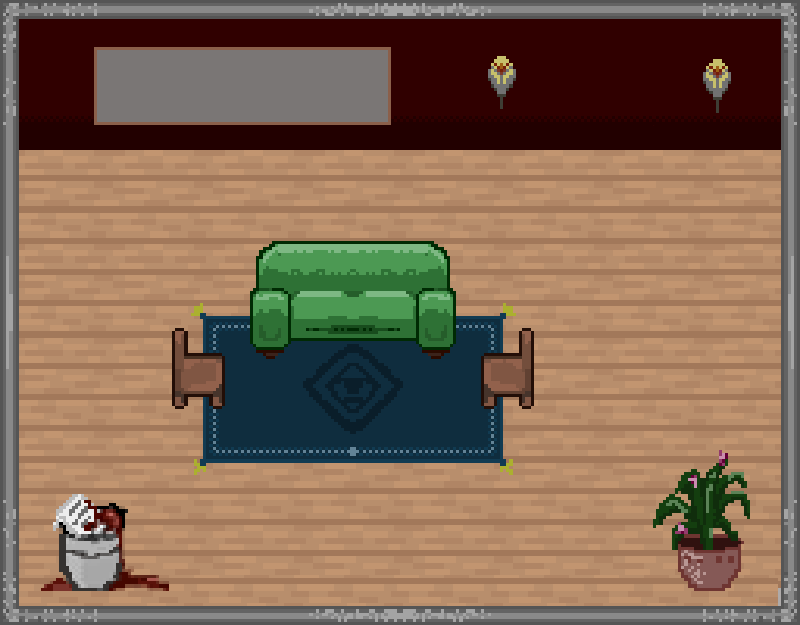
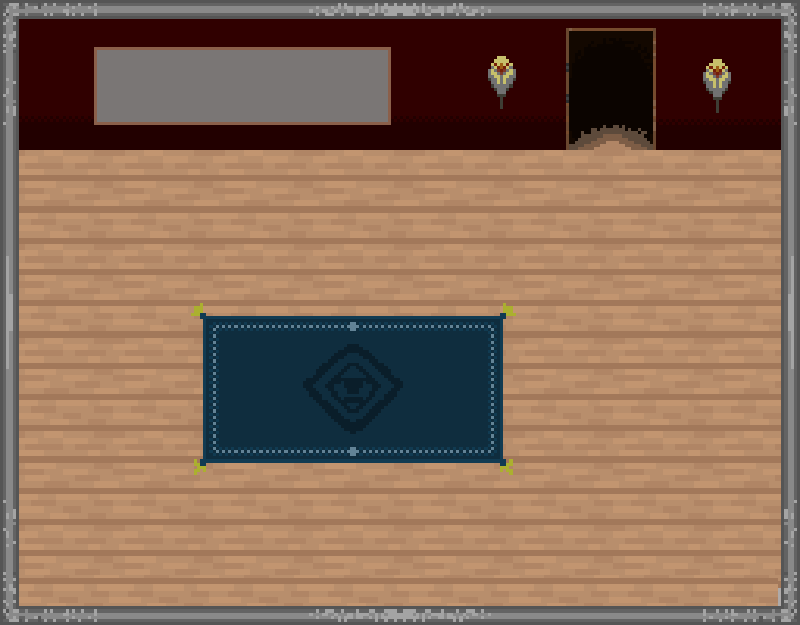
Add objects collision

diff --git a/main.js b/main.js
@@ -1,4 +1,4 @@
-import { IMAGES } from "./consts";
+import { LEVEL_ONE_IMAGES, LEVEL_TWO_IMAGES } from "./consts";
 // import { displayQuestion, generateQuestion } from "./actions";
 import "./style.css";
 import Phaser from "phaser";
@@ -9,14 +9,8 @@ var player;
 var cursors;
 var gameOver = false;
 var door;
-var level = 1;
-var lifes = 2;
-var lifesText;
-var questionNumber = 1;
-var question;
-var item;
 var key;
-
+var book;
 class LevelOne extends Phaser.Scene {
   constructor() {
     super("levelOne");
@@ -26,6 +20,10 @@ class LevelOne extends Phaser.Scene {
   //set a property
 
   keyFound = false;
+  sillon;
+  boteBasura;
+  sillaIzquierda;
+  sillaDerecha;
 
   getKeyFound() {
     return this.keyFound;
@@ -37,7 +35,11 @@ class LevelOne extends Phaser.Scene {
 
   collisionWithDoor(player, element) {
     if (!this.getKeyFound()) {
+      this.game.pause();
       alert("¡Encuentra la llave para poder continuar!");
+      setTimeout(() => {
+        this.game.resume();
+      }, 1000);
       return;
     }
     alert("¡Excelente! Has encontrado la puerte y tienes la llave");
@@ -51,11 +53,11 @@ class LevelOne extends Phaser.Scene {
   }
 
   preload() {
-    IMAGES.forEach((image) => {
+    LEVEL_ONE_IMAGES.forEach((image) => {
       this.load.image(image.name, image.path);
     });
     this.load.spritesheet("player", "assets/player.png", {
-      frameWidth: 96,
+      frameWidth: 107,
       frameHeight: 96,
     });
   }
@@ -64,13 +66,21 @@ class LevelOne extends Phaser.Scene {
     this.add.image(400, 300, "sky");
 
     //Donde aparece el personaje
-    player = this.physics.add.sprite(100, 450, "player");
+    player = this.physics.add.sprite(600, 450, "player");
     //remove gravity
     door = this.physics.add.staticGroup(); // Agrega la puerta como objeto estático
     key = this.physics.add.staticGroup(); // Agrega la llave como objeto estático
+    this.sillon = this.physics.add.staticGroup();
+    this.boteBasura = this.physics.add.staticGroup();
+    this.sillaIzquierda = this.physics.add.staticGroup();
+    this.sillaDerecha = this.physics.add.staticGroup();
     //Donde se crea la puerta [la posicion]
-    key.create(10, 5, "key");
+    key.create(60, 150, "key");
     door.create(610, 75, "door");
+    this.sillon.create(355, 290, "sillon");
+    this.boteBasura.create(100, 530, "boteBasura");
+    this.sillaIzquierda.create(200, 370, "sillaIzquierda");
+    this.sillaDerecha.create(500, 370, "sillaDerecha");
 
     // platforms.create(400, 568, "ground").setScale(2).refreshBody();
     this.physics.world.setBounds(0, 0, 800, 600); // Reemplaza 'width' y 'height' con los valores adecuados
@@ -80,41 +90,52 @@ class LevelOne extends Phaser.Scene {
     //  Our player animations, turning, walking left and walking right.
     this.anims.create({
       key: "left",
-      frames: this.anims.generateFrameNumbers("player", { start: 1, end: 1 }),
+      frames: this.anims.generateFrameNumbers("player", { start: 0, end: 5 }),
       frameRate: 10,
       repeat: -1,
     });
 
     this.anims.create({
       key: "turn",
-      frames: [{ key: "player", frame: 5 }],
+      frames: [{ key: "player", frame: 0 }],
       frameRate: 20,
     });
 
     this.anims.create({
       key: "right",
-      frames: this.anims.generateFrameNumbers("player", { start: 10, end: 10 }),
+      frames: this.anims.generateFrameNumbers("player", { start: 8, end: 13 }),
       frameRate: 10,
       repeat: -1,
     });
 
     this.anims.create({
       key: "up",
-      frames: this.anims.generateFrameNumbers("player", { start: 1, end: 1 }),
+      frames: this.anims.generateFrameNumbers("player", { start: 1, end: 2 }),
       frameRate: 10,
       repeat: -1,
     });
 
     this.anims.create({
       key: "down",
-      frames: this.anims.generateFrameNumbers("player", { start: 5, end: 5 }),
+      frames: this.anims.generateFrameNumbers("player", { start: 0, end: 4 }),
       frameRate: 10,
       repeat: -1,
     });
 
     this.physics.add.collider(player, door, this.collisionWithDoor, null, this);
-
     this.physics.add.collider(player, key, this.collisionWithKey, null, this);
+    this.physics.add.collider(player, this.sillon, () => {}, null, this);
+    this.physics.add.collider(player, this.boteBasua, () => {}, null, this);
+    this.physics.add.collider(
+      player,
+      this.sillaIzquierda,
+      () => {},
+      null,
+      this
+    );
+    this.physics.add.collider(player, this.sillaDerecha, () => {}, null, this);
+    this.physics.add.collider(player, this.boteBasura, () => {}, null, this);
+
     cursors = this.input.keyboard.createCursorKeys();
   }
 
@@ -123,41 +144,119 @@ class LevelOne extends Phaser.Scene {
       return;
     }
 
-    if (cursors.left.isDown) {
+    if (cursors.left.isDown && cursors.up.isDown) {
+      player.setVelocityX(-160);
+      player.setVelocityY(-160);
+      player.anims.play("left", true);
+    } else if (cursors.right.isDown && cursors.up.isDown) {
+      player.setVelocityX(160);
+      player.setVelocityY(-160);
+      player.anims.play("right", true);
+    } else if (cursors.left.isDown && cursors.down.isDown) {
+      player.setVelocityX(-160);
+      player.setVelocityY(160);
+      player.anims.play("left", true);
+    } else if (cursors.right.isDown && cursors.down.isDown) {
+      player.setVelocityX(160);
+      player.setVelocityY(160);
+      player.anims.play("right", true);
+    } else if (cursors.left.isDown) {
       player.setVelocityX(-160);
       player.anims.play("left", true);
     } else if (cursors.right.isDown) {
       player.setVelocityX(160);
       player.anims.play("right", true);
-    } else {
-      player.setVelocityX(0);
-      player.anims.play("turn");
-    }
-
-    // Movimiento vertical
-    if (cursors.up.isDown) {
+    } else if (cursors.up.isDown) {
       player.setVelocityY(-160);
       player.anims.play("up", true);
     } else if (cursors.down.isDown) {
       player.setVelocityY(160);
       player.anims.play("down", true);
     } else {
+      player.setVelocityX(0);
       player.setVelocityY(0);
+      player.anims.play("turn");
     }
+
+    // Movimiento vertical
   }
 }
 
 class LevelTwo extends Phaser.Scene {
+  book;
+  phone;
+  door;
+  bookFound = false;
+  phoneFound = false;
+
+  setBookFound(value) {
+    this.bookFound = value;
+  }
+
+  getBookFound() {
+    return this.bookFound;
+  }
+
+  setPhoneFound(value) {
+    this.phoneFound = value;
+  }
+
+  getPhoneFound() {
+    return this.phoneFound;
+  }
+
   constructor() {
     super("levelTwo");
   }
+
+  collisionWithPhone(player, element) {
+    this.setPhoneFound(true);
+    if (!this.getBookFound()) {
+      alert("¡Encuentra el libro para poder avanzar!");
+      element.destroy();
+      return;
+    }
+
+    if (this.getBookFound() && this.getPhoneFound()) {
+      alert("¡Encontraste el celular, avanza al siguiente nivel!");
+      element.destroy();
+      return;
+    }
+  }
+
+  collisionWithBook(player, element) {
+    this.setBookFound(true);
+    if (!this.getPhoneFound()) {
+      alert("¡Encuentra el celular para poder avanzar!");
+      element.destroy();
+      return;
+    }
+
+    if (this.getBookFound() && this.getPhoneFound()) {
+      alert("¡Encontraste el libro, avanza al siguiente nivel!");
+      element.destroy();
+      return;
+    }
+  }
+
+  collisionWithDoor(player, element) {
+    if (!this.getBookFound() || !this.getPhoneFound()) {
+      alert("¡Encuentra los objetos para poder ver avanzar!");
+      return;
+    }
+
+    alert(
+      "¡Excelente! Has encontrado la puerta y tienes los objetos para avanzar"
+    );
+  }
+
   preload() {
-    IMAGES.forEach((image) => {
+    LEVEL_TWO_IMAGES.forEach((image) => {
       this.load.image(image.name, image.path);
     });
 
     this.load.spritesheet("player", "assets/player.png", {
-      frameWidth: 96,
+      frameWidth: 124,
       frameHeight: 96,
     });
   }
@@ -168,10 +267,13 @@ class LevelTwo extends Phaser.Scene {
     //Donde aparece el personaje
     player = this.physics.add.sprite(100, 450, "player");
     //remove gravity
-    door = this.physics.add.staticGroup(); // Agrega la puerta como objeto estático
-    key = this.physics.add.staticGroup(); // Agrega la llave como objeto estático
+    this.door = this.physics.add.staticGroup(); // Agrega la puerta como objeto estático
+    this.book = this.physics.add.staticGroup();
+    this.phone = this.physics.add.staticGroup();
     //Donde se crea la puerta [la posicion]
-    door.create(610, 75, "door");
+    this.door.create(610, 75, "door");
+    this.book.create(360, 185, "book");
+    this.phone.create(700, 400, "phone");
 
     // platforms.create(400, 568, "ground").setScale(2).refreshBody();
     this.physics.world.setBounds(0, 0, 800, 600); // Reemplaza 'width' y 'height' con los valores adecuados
@@ -181,20 +283,20 @@ class LevelTwo extends Phaser.Scene {
     //  Our player animations, turning, walking left and walking right.
     this.anims.create({
       key: "left",
-      frames: this.anims.generateFrameNumbers("player", { start: 1, end: 1 }),
-      frameRate: 10,
+      frames: this.anims.generateFrameNumbers("player", { start: 0, end: 1 }),
+      frameRate: 5,
       repeat: -1,
     });
 
     this.anims.create({
       key: "turn",
-      frames: [{ key: "player", frame: 5 }],
+      frames: [{ key: "player", frame: 3 }],
       frameRate: 20,
     });
 
     this.anims.create({
       key: "right",
-      frames: this.anims.generateFrameNumbers("player", { start: 10, end: 10 }),
+      frames: this.anims.generateFrameNumbers("player", { start: 8, end: 12 }),
       frameRate: 10,
       repeat: -1,
     });
@@ -212,6 +314,30 @@ class LevelTwo extends Phaser.Scene {
       frameRate: 10,
       repeat: -1,
     });
+
+    this.physics.add.collider(
+      player,
+      this.book,
+      this.collisionWithBook,
+      null,
+      this
+    );
+
+    this.physics.add.collider(
+      player,
+      this.phone,
+      this.collisionWithPhone,
+      null,
+      this
+    );
+
+    this.physics.add.collider(
+      player,
+      this.door,
+      this.collisionWithDoor,
+      null,
+      this
+    );
 
     cursors = this.input.keyboard.createCursorKeys();
   }

diff --git a/consts.js b/consts.js
@@ -1,4 +1,4 @@
-export const IMAGES = [
+export const LEVEL_ONE_IMAGES = [
   {
     name: "sky",
     path: "assets/bg-level1.png",
@@ -16,8 +16,39 @@ export const IMAGES = [
     path: "assets/key.png",
   },
   {
+    name: "sillon",
+    path: "assets/sillon.png",
+  },
+  {
+    name: "boteBasura",
+    path: "assets/boteBasura.png",
+  },
+  {
+    name: "sillaIzquierda",
+    path: "assets/sillaIzquierda.png",
+  },
+  {
+    name: "sillaDerecha",
+    path: "assets/sillaDerecha.png",
+  },
+];
+
+export const LEVEL_TWO_IMAGES = [
+  {
     name: "bg-level2",
     path: "assets/bg-level2.png",
+  },
+  {
+    name: "door",
+    path: "assets/door.png",
+  },
+  {
+    name: "phone",
+    path: "assets/phone.png",
+  },
+  {
+    name: "book",
+    path: "assets/book.png",
   },
 ];
 
